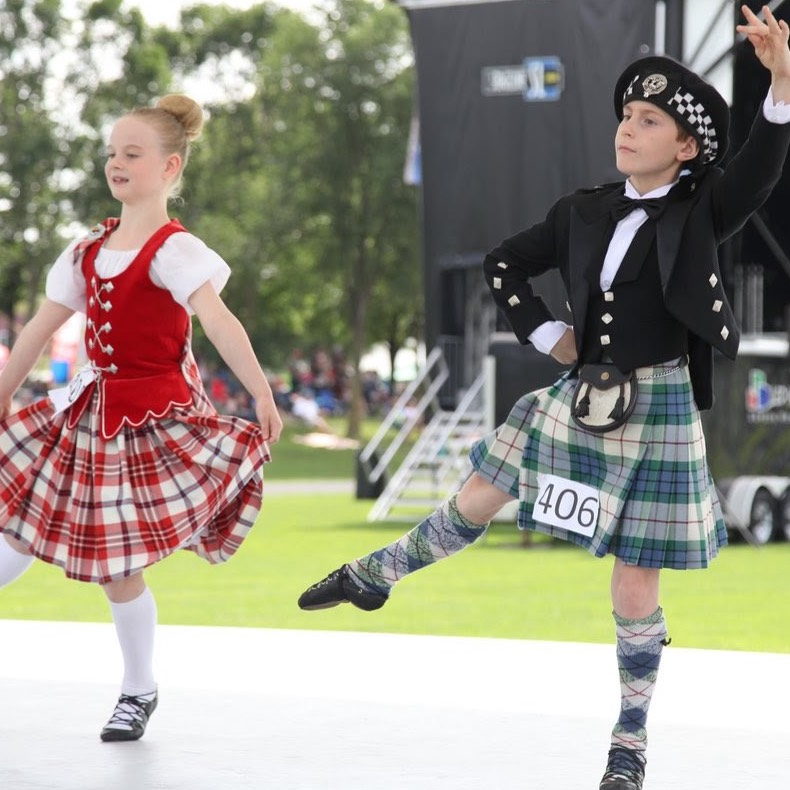
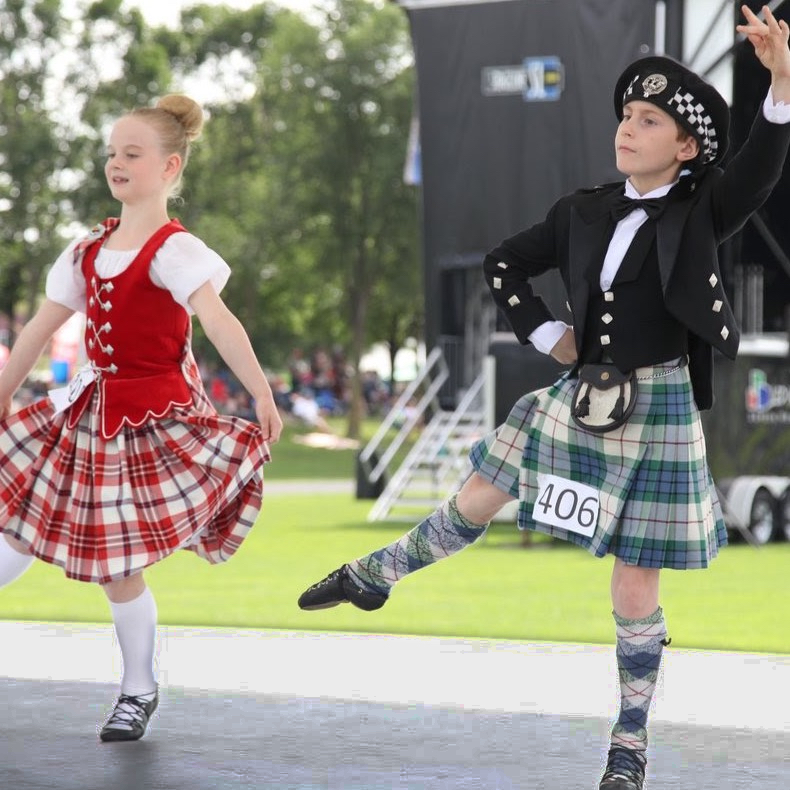
added links to socials and fixed up pictures with high res

Changed region(s): [[0.0, 0.7595, 1.0, 1.0], [0.0, 0.7595, 0.1519, 0.8203]]

diff --git a/index.html b/index.html
@@ -75,7 +75,7 @@
 	</div>
 	<div class="col-md-4 col-sm-6">
 		<div class="thumbnail zoom">
-			<img src="images/HP-10.jpg">
+			<img src="images/HP-4.jpg">
 			<div class="centered2" style="font-size:2vw;">Athletics</div>
 		</div>
 	</div>
@@ -124,8 +124,8 @@
 	<div class="col-md-8">
 		<div class="bottom_text" style="font-size:2vw;">Join us for our 53rd year in bringing the music, food, athletics and performing arts of Scotland, Ireland, England and Wales to the Monterey Peninsula.<br><br><br><br><br>July 31 & August 1, 2021
 		</div>
-		<a class="btn-xl" type="button" role="button"><i class="fa fa-facebook-square"></i></a>
-		<a class="btn-xl" type="button" role="button"><i class="fa fa-instagram"></i></a>
+		<a class="btn-xl" type="button" role="button" href="https://www.facebook.com/montereyscotgames/"><i class="fa fa-facebook-square"></i></a>
+		<a class="btn-xl" type="button" role="button" href="https://www.instagram.com/explore/locations/355118236/monterey-scottish-games-celtic-festival/"><i class="fa fa-instagram"></i></a>
 	</div>
 </div>
 
